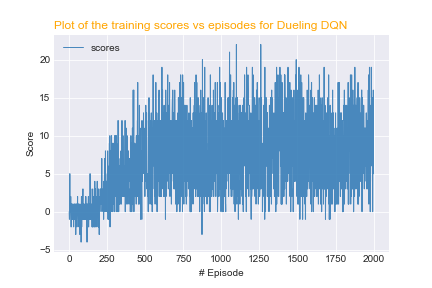
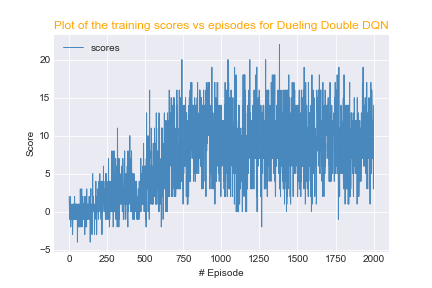
double dueling graph added

Changed region(s): [[0.1505, 0.1562, 0.8727, 0.8438], [0.7523, 0.0625, 0.9028, 0.125]]

diff --git a/Readme.md b/Readme.md
@@ -79,6 +79,7 @@ Below are the graphs for the three methods tried in this project.
 
 ![Dueling](results/dueling.png)
 
+![Double Dueling](results/double_dueling.png)
 ### Future Work
 
 Future work for this project could include testing some different model types including actor critic models. Alternatively some synchronous training methods could be attempted to improve training by deploying many agents and periodically storing and redeploying the best agent. Some of the models tested here appear to suffer from some instability, which may be an issue with initialisation so asynchronous methods could help with that.
